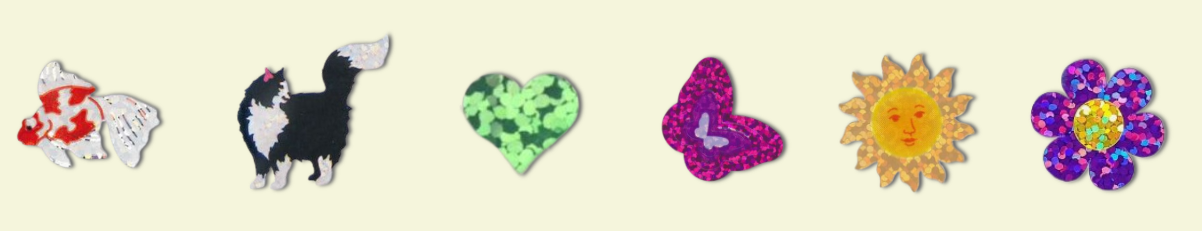
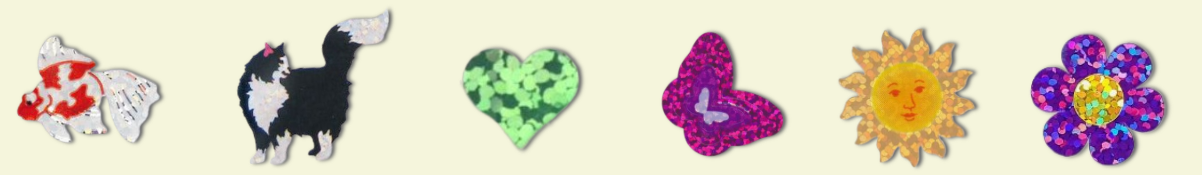
skills page finished

diff --git a/skills.html b/skills.html
@@ -10,8 +10,8 @@
 
             #title{
                 font-family: Courier;
-                margin-top: 50px;
-                margin-bottom: 60px;
+                margin-top: 10px;
+                margin-bottom: 100px;
                 font-size: 50px;
             }
               
@@ -25,6 +25,7 @@
                 font-family: Courier;
                 margin-left: 30px;
                 font-size: 30px;
+                padding: 15px;
             }
 
             #skills{
@@ -35,7 +36,7 @@
 
             #fish-sticker{
                 position: absolute;
-                top: 175px;
+                top: 200px;
                 left: 260px;
                 filter: drop-shadow(2px 0px 1px #5b5b5e);
             }
@@ -46,7 +47,7 @@
 
             #cat-sparkle-sticker{
                 position: absolute;
-                top: 165px;
+                top: 185px;
                 left: 380px;
                 filter: drop-shadow(2px 0px 1px #5b5b5e);
             }
@@ -58,7 +59,7 @@
 
             #heart-sticker{
                 position: absolute;
-                top: 173px;
+                top: 190px;
                 left: 495px;
                 filter: drop-shadow(2px 0px 1px #5b5b5e);
             }
@@ -69,7 +70,7 @@
 
             #butterfly-sticker{
                 position: absolute;
-                top: 173px;
+                top: 193px;
                 left: 600px;
                 filter: drop-shadow(2px 0px 1px #5b5b5e);
             }
@@ -80,7 +81,7 @@
 
             #sun-sticker{
                 position: absolute;
-                top: 173px;
+                top: 185px;
                 left: 700px;
                 filter: drop-shadow(2px 0px 1px #5b5b5e);
             }
@@ -91,7 +92,7 @@
 
             #flower-sticker{
                 position: absolute;
-                top: 173px;
+                top: 185px;
                 left: 800px;
                 filter: drop-shadow(2px 0px 1px #5b5b5e);
             }
@@ -99,20 +100,168 @@
             #flower{
                 width: 85px;
             }
-
+            
             #row-two{
                 position: absolute;
-                top: 250px;
-                left: 420px;
+                top: 308px;
+                left: 440px;
             }
 
-            #row{
+            #row-three{
+                position: absolute;
+                top: 430px;
+                left: 210px;
+            }
+
+            #row-four{
+                position: absolute;
+                top: 555px;
+                left: 310px;
+            }
+
+            #row-five{
+                position: absolute;
+                top: 675px;
+                left: 200px;
+            }
+
+            #row-six{
+                position: absolute;
+                top: 798px;
+                left: 150px;
+            }
+
+            #row-seven{
+                position: absolute;
+                top: 924px;
+                left: 240px;
+            }
+
+            #row-eight{
+                position: absolute;
+                top: 1050px;
+                left: 333px;
+            }
+
+            #row-nine{
+                position: absolute;
+                top: 1170px;
+                left: 333px;
+            }
+
+            #row-ten{
+                position: absolute;
+                top: 1295px;
+                left: 233px;
+            }
+
+            .row{
                 width: 620px;
             }
+
+            #one{
+                position: absolute;
+                top: 308px;
+                left: 850px;
+            }
+
+            #square-one{
+                background-color: beige;
+                width: 250px;
+                height: 95px
+            }
+
+            #two{
+                position: absolute;
+                top: 428px;
+                left: 585px;
+            }
+
+            #square-two{
+                background-color: beige;
+                width: 350px;
+                height: 95px
+            }
+
+            #three{
+                position: absolute;
+                top: 555px;
+                left: 785px;
+            }
+
+            #square-three{
+                background-color: beige;
+                width: 350px;
+                height: 95px
+            }
+
+            #four{
+                position: absolute;
+                top: 675px;
+                left: 775px;
+            }
+
+            #square-four{
+                background-color: beige;
+                width: 350px;
+                height: 95px
+            }
+
+            #five{
+                position: absolute;
+                top: 924px;
+                left: 730px;
+            }
+
+            #square-five{
+                background-color: beige;
+                width: 350px;
+                height: 95px
+            }
+
+            #six{
+                position: absolute;
+                top: 1050px;
+                left: 900px;
+            }
+
+            #square-six{
+                background-color: beige;
+                width: 350px;
+                height: 95px
+            }
+
+            #seven{
+                position: absolute;
+                top: 1170px;
+                left: 920px;
+            }
+
+            #square-seven{
+                background-color: beige;
+                width: 350px;
+                height: 95px
+            }
+
+            #eight{
+                position: absolute;
+                top: 1295px;
+                left: 520px;
+            }
+
+            #square-eight{
+                background-color: beige;
+                width: 350px;
+                height: 95px
+            }
+            
+
         </style>
     </head>
 
     <body>
+        
+
         <div>
             <h1 id = "title"> Skills </h1> 
         </div>
@@ -127,10 +276,46 @@
             <p>JS Fiddle </p>
             <p>Learning Comp </p>
             <p>Communication </p>
-            <p>Socail </p>
+            <p>Social </p>
         </div>
 
         <div id="sitcker-row"> 
+
+            <div id="row-ten">
+                <img class = "row" src="Screenshot 2023-08-02 201209.png" alt="tape img">
+            </div>
+
+            <div id="row-nine">
+                <img class = "row" src="Screenshot 2023-08-02 201209.png" alt="tape img">
+            </div>
+
+            <div id="row-eight">
+                <img class = "row" src="Screenshot 2023-08-02 201209.png" alt="tape img">
+            </div>
+
+            <div id="row-seven">
+                <img class = "row" src="Screenshot 2023-08-02 201209.png" alt="tape img">
+            </div>
+
+            <div id="row-six">
+                <img class = "row" src="Screenshot 2023-08-02 201209.png" alt="tape img">
+            </div>
+
+            <div id="row-five">
+                <img class = "row" src="Screenshot 2023-08-02 201209.png" alt="tape img">
+            </div> 
+
+            <div id="row-four">
+                <img class = "row" src="Screenshot 2023-08-02 201209.png" alt="tape img">
+            </div> 
+
+            <div id="row-three">
+                <img class = "row" src="Screenshot 2023-08-02 201209.png" alt="tape img">
+            </div> 
+
+            <div id="row-two">
+                <img class = "row" src="Screenshot 2023-08-02 201209.png" alt="tape img">
+            </div>
 
         <div id="fish-sticker">
             <img id = "fish" src="Screenshot_2023-08-02_182353-removebg-preview.png" alt="tape img">
@@ -152,10 +337,44 @@
             <img id = "sun" src="Screenshot_2023-08-02_182506-removebg-preview (1).png" alt="tape img">
         </div>
 
-        <div id="row-two">
-            <img id = "row" src="Screenshot 2023-08-02 201209.png" alt="tape img">
+        <div id="flower-sticker">
+            <img id = "flower" src="Screenshot_2023-08-02_190155-removebg-preview.png" alt="tape img">
         </div>
 
+       
+
+    </div>
+
+    <div id = "one">
+        <div id = "square-one"></div>
+    </div>
+
+    <div id = "two">
+        <div id = "square-two"></div>
+    </div>
+
+    <div id = "three">
+        <div id = "square-three"></div>
+    </div>
+
+    <div id = "four">
+        <div id = "square-four"></div>
+    </div>
+
+    <div id = "five">
+        <div id = "square-five"></div>
+    </div>
+
+    <div id = "six">
+        <div id = "square-six"></div>
+    </div>
+
+    <div id = "seven">
+        <div id = "square-seven"></div>
+    </div>
+
+    <div id = "eight">
+        <div id = "square-eight"></div>
     </div>
 
     </body>
